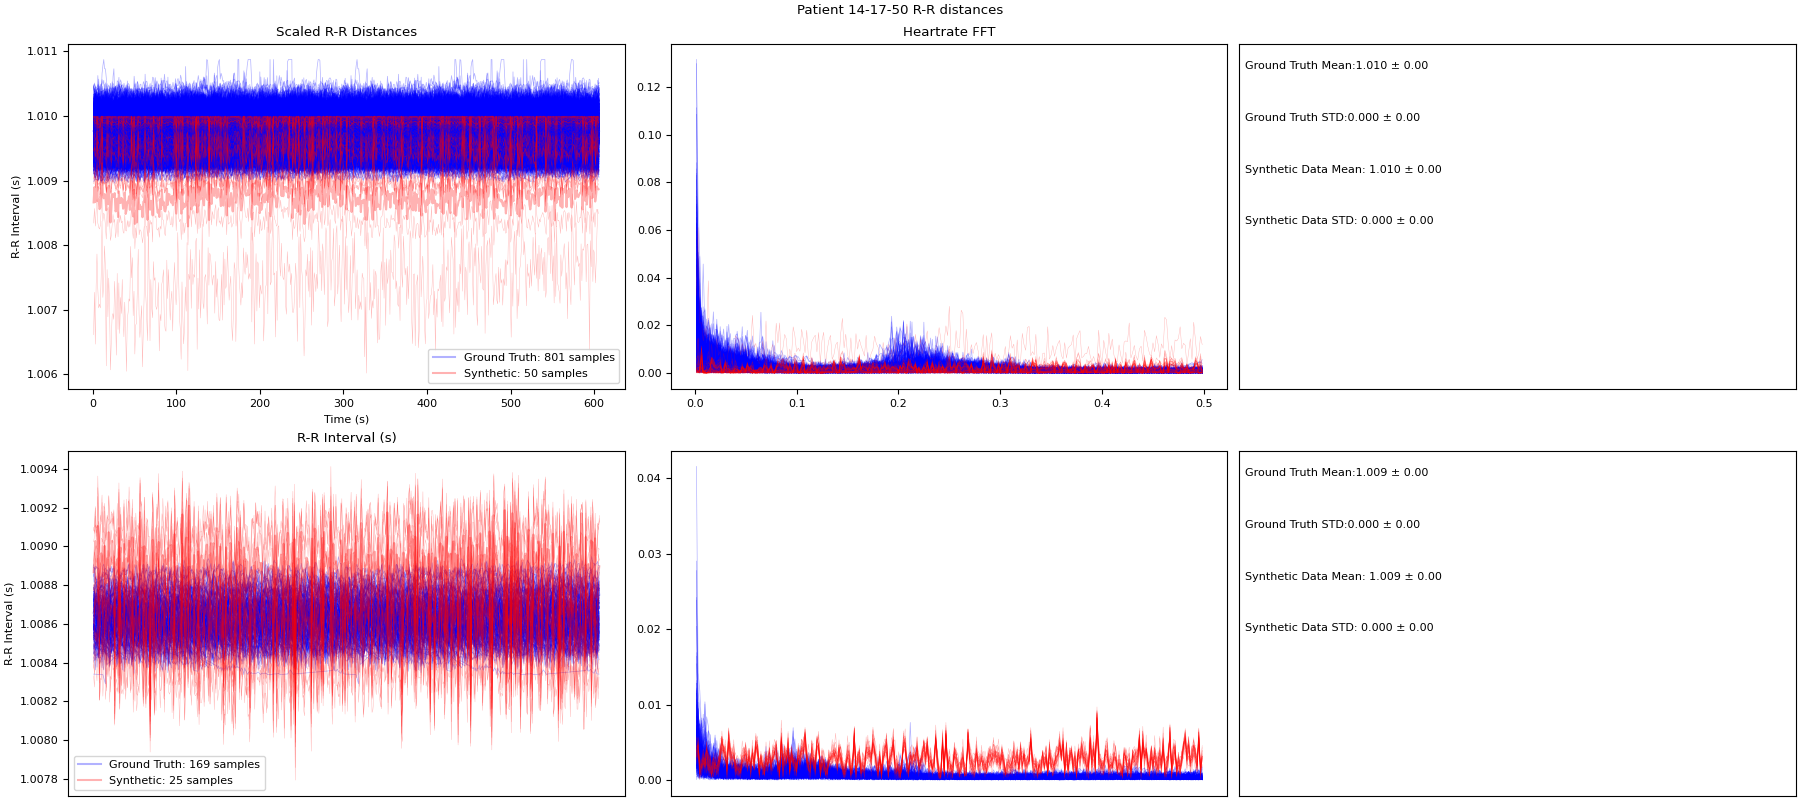
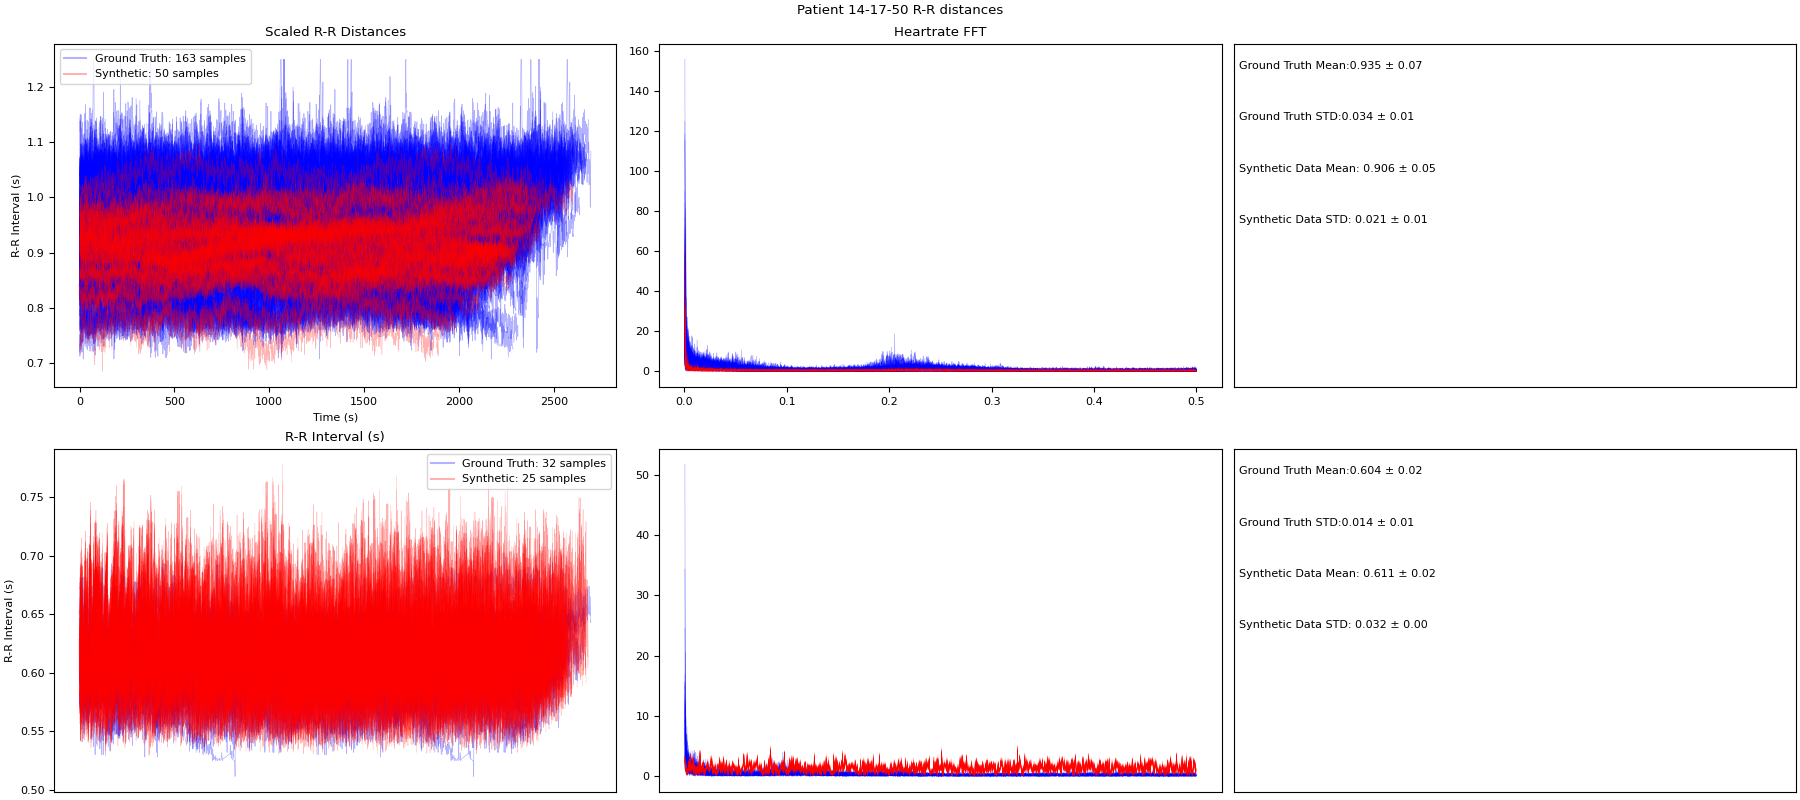
fixed split not scaling bug - train_gan_heartrate works again

diff --git a/train_gan_heartrate.py b/train_gan_heartrate.py
@@ -11,7 +11,7 @@ from torch.utils.data import TensorDataset, DataLoader
 import matplotlib.pyplot as plt
 from wgan import train_wgan, Generator
 from scipy.signal import find_peaks
-plt.rcParams.update({'font.size': 8})
+from matplotlib.lines import Line2D
 
 #data processing params
 patient_names = '06-31-24', '09-40-14', '10-48-45', '11-03-38', '13-22-23', '14-17-50'
@@ -67,15 +67,16 @@ def split_patient(patient_name:str, split_loc:float, stride:int=snip_len//2):
     split the data into two sets, one of which is a set of continuious snips greater than split_loc
     and the other is lower
     """
-    heartrate_data_raw = np.loadtxt(f'processed_data/heartrate_{patient_name}_unscaled.csv',delimiter=',')
+    heartrate_data_raw = np.loadtxt(f'processed_data/heartrate_{patient_name}.csv',delimiter=',')
     heartrate_data = heartrate_data_raw[:-2] #remove min and max
     heartrate_min = heartrate_data_raw[-2]
     heartrate_max = heartrate_data_raw[-1]
     segments = np.lib.stride_tricks.sliding_window_view(heartrate_data, window_shape=snip_len)
     segments = segments[::stride]
     # Boolean masks
-    mask_gt = np.all(segments > split_loc, axis=1)
-    mask_lt = np.all(segments < split_loc, axis=1)
+    scaled_split_loc  = 2*(split_loc - heartrate_min) / (heartrate_max -heartrate_min )-1
+    mask_gt = np.all(segments > scaled_split_loc, axis=1)
+    mask_lt = np.all(segments < scaled_split_loc, axis=1)
 
     # Split into two arrays
     segments_gt = segments[mask_gt]
@@ -91,7 +92,7 @@ def get_synthetic_outputs(gan, iterations, latent_dim=100):
     synthetic_output = np.array([gan(torch.randn(1, 100).cuda()).cpu().detach().numpy().squeeze() for _ in range(iterations)])
     return synthetic_output
 
-def final_plot(synth_data:list, ground_truth_data:list, data_max:float, data_min:float, name:str, alpha=0.3):
+def final_plot(synth_data:list, ground_truth_data:list, data_max:float, data_min:float, name:str, alpha=0.0001, linewidth=0.5):
     fig, axes = plt.subplots(len(synth_data),3,figsize=(18,8),constrained_layout=True)
     for itr, (synthetic, ground_truth) in enumerate(zip(synth_data, ground_truth_data)):
         synthetic =   ((synthetic + 1) / 2) * (data_max - data_min) + data_min
@@ -99,29 +100,19 @@ def final_plot(synth_data:list, ground_truth_data:list, data_max:float, data_min
 
         wave_ax = axes[itr,0]
         fft_ax = axes[itr,1]
+        fft_ax.set_ylim(0,20)
         text_ax = axes[itr,2]
-
-        all_gt_fft = []
-        all_synth_fft = []
 
         for it, gt_wave in enumerate(ground_truth):
             gt_squeezed = gt_wave.squeeze()
-            if it==0:
-                wave_ax.plot(np.cumsum(gt_squeezed), gt_squeezed, color='blue', alpha=alpha, label=f'Ground Truth: {len(ground_truth)} samples')
-            else:
-                wave_ax.plot(np.cumsum(gt_squeezed), gt_squeezed, alpha=alpha, linewidth=0.5, color='blue')
+            wave_ax.plot(np.cumsum(gt_squeezed), gt_squeezed, linewidth=linewidth, alpha=alpha, color='blue')
             freq, mag, _ = fft_transform(gt_squeezed)
-            fft_ax.plot(freq[1:], mag[1:], linewidth=0.5, alpha=alpha, color='blue')
-            all_gt_fft.append(mag)
+            fft_ax.plot(freq[1:], mag[1:], alpha=alpha, linewidth=linewidth, color='blue')
 
         for it, synth_wave in enumerate(synthetic):
-            if it == 0:
-                wave_ax.plot(np.cumsum(synth_wave), synth_wave, color='red', alpha=alpha, label=f'Synthetic: {len(synthetic)} samples')
-            else:
-                wave_ax.plot(np.cumsum(synth_wave), synth_wave, alpha=alpha, linewidth=alpha, color='red')
+            wave_ax.plot(np.cumsum(synth_wave), synth_wave, alpha=alpha, linewidth=linewidth, color='red')
             synth_freq, synth_mag, synth_peaks = fft_transform(synth_wave)
-            fft_ax.plot(synth_freq[1:], synth_mag[1:], linewidth=alpha, alpha=alpha, color='red')
-            all_synth_fft.append(synth_mag)
+            fft_ax.plot(synth_freq[1:], synth_mag[1:], alpha=alpha, linewidth=linewidth, color='red')
 
         synth_mean = f'{np.mean(synthetic):.3f} \u00B1 {np.std(np.mean(synthetic, axis=1)):.2f}'
         synth_std = f'{np.mean(np.std(synthetic, axis=1)):.3f} \u00B1 {np.std(np.std(synthetic, axis=1)):.2f}'
@@ -130,19 +121,13 @@ def final_plot(synth_data:list, ground_truth_data:list, data_max:float, data_min
         gt_std = f'{np.mean(np.std(ground_truth, axis=2)):.3f} \u00B1 {np.std(np.std(ground_truth, axis=2)):.2f}'
 
         wave_ax.set_ylabel("R-R Interval (s)")
-        wave_ax.set_title("R-R Interval (s)")
-        wave_ax.legend()
+        legend_lines = [Line2D([0], [0], color='blue'),  Line2D([0], [0], color='red')]
+        wave_ax.legend(legend_lines, [f"Ground Truth: {len(ground_truth)} samples", f"Synthetic: {len(synthetic)} samples"])
 
         text_ax.text(0.01, 0.95, f'Ground Truth Mean:{gt_mean}', ha='left', va='top')
         text_ax.text(0.01, 0.80, f'Ground Truth STD:{gt_std}', ha='left', va='top')
         text_ax.text(0.01, 0.65,f'Synthetic Data Mean: {synth_mean}', ha='left', va='top')
         text_ax.text(0.01, 0.50, f'Synthetic Data STD: {synth_std}', ha='left', va='top')
-        #all_mses = [weighted_mse(ground_truth,synth_wave) for gt, synth_wave in zip(ground_truth,synthetic)]
-        #all_fft_mses = [weighted_mse(gt_fft,synth_fft) for gt_fft, synth_fft in zip(all_gt_fft, all_synth_fft)]
-
-        #text_ax.text(0.01, 0.35, f'Weighted Waveform MSE - Mean:{np.mean(all_mses):.5f} \u00B1:{np.std(all_mses):.3f}', ha='left', va='top')
-        #text_ax.text(0.01, 0.20, f'Weighted FFT MSE - Mean:{np.mean(all_fft_mses):.5f} \u00B1:{np.std(all_fft_mses):.3f}', ha='left', va='top')
-
 
         text_ax.set_xticks([])
         text_ax.set_yticks([])
@@ -163,8 +148,8 @@ def final_plot(synth_data:list, ground_truth_data:list, data_max:float, data_min
 high_data, low_data, data_min, data_max = split_patient(patient_name = '14-17-50', split_loc= 0.7)
 high_data_dl, high_data_test = make_GAN_test_set(high_data)
 low_data_dl, low_data_test = make_GAN_test_set(low_data)
-wgan_gp_high = train_store_gan(high_data_dl, 'high_dataset', just_load=False, epochs=500)
-wgan_gp_low = train_store_gan(low_data_dl, 'low_dataset', just_load=False, epochs=500)
-synth_high = get_synthetic_outputs(wgan_gp_high, iterations=50)
-synth_low = get_synthetic_outputs(wgan_gp_low, iterations=25)
-final_plot([synth_high, synth_low], [high_data_test,low_data_test], data_max=data_max, data_min=data_min, name='Patient 14-17-50 R-R distances')
+wgan_gp_high = train_store_gan(high_data_dl, 'high_dataset', just_load=False, epochs=700)
+wgan_gp_low = train_store_gan(low_data_dl, 'low_dataset', just_load=False, epochs=700)
+synth_high = get_synthetic_outputs(wgan_gp_high, iterations=len(high_data_test))
+synth_low = get_synthetic_outputs(wgan_gp_low, iterations=len(low_data_test))
+final_plot([synth_high, synth_low], [high_data_test,low_data_test], data_max=data_max, data_min=data_min, name='Patient 14-17-50 R-R distances split at 0.7')

diff --git a/sinusoid_test/train_gan_square_tri_loop.py b/sinusoid_test/train_gan_square_tri_loop.py
@@ -110,13 +110,13 @@ def make_train_test_dataloaders(square_data, triangle_data):
 def train_store_gan(train_square, train_triangle, gen_name = '', epochs=100, just_load=False):
     if not just_load:
         gen_square, _ = train_wgan(train_square, signal_length = 2500, epochs=epochs)
-        torch.save(gen_square.state_dict(), f"models/generator_square_{gen_name}.pth")
+        torch.save(gen_square.state_dict(), f"../models/generator_square_{gen_name}.pth")
         gen_triangle, _ = train_wgan(train_triangle,signal_length = 2500,  epochs=epochs)
-        torch.save(gen_triangle.state_dict(), f"models/generator_triangle_{gen_name}.pth")
+        torch.save(gen_triangle.state_dict(), f"../models/generator_triangle_{gen_name}.pth")
 
     gen_triangle, gen_square = Generator(signal_length = 2500, latent_dim=100).cuda(), Generator(signal_length = 2500,  latent_dim=100).cuda()
-    gen_triangle.load_state_dict(torch.load(f"models/generator_triangle_{gen_name}.pth", weights_only=True))
-    gen_square.load_state_dict(torch.load(f"models/generator_square_{gen_name}.pth", weights_only=True))
+    gen_triangle.load_state_dict(torch.load(f"../models/generator_triangle_{gen_name}.pth", weights_only=True))
+    gen_square.load_state_dict(torch.load(f"../models/generator_square_{gen_name}.pth", weights_only=True))
     return gen_square, gen_triangle
 
 def plot_mean_and_diff(square_real, square_gen, triangle_real, triangle_gen, filename='comparison', show=False):
@@ -164,7 +164,7 @@ def plot_mean_and_diff(square_real, square_gen, triangle_real, triangle_gen, fil
     axes[1].set_title(f"Comparison Between original Triangle Waves and WGAN-Generated Triangle Waves \n Generated Mean: {triangle_gen_mean:.3f}, Generated Median {triangle_gen_median:.3f}, Generated STD {triangle_gen_std:.3f}, Original Mean: {triangle_real_mean:.3f}, Original Median {triangle_real_median:.3f}, Original STD {triangle_real_std:.3f}")
 
     plt.tight_layout()
-    plt.savefig(f"figures/wgan_comparison/{filename}.png")
+    plt.savefig(f"../figures/wgan_comparison/{filename}.png")
     if show:
         plt.show()
 
@@ -183,7 +183,7 @@ def plot_examples(square_gen, triangle_gen, filename='examples', show=False):
     axes[1].set_xlabel("Time (s)")
     axes[1].set_ylim(-1.2,1.2)
     plt.tight_layout()
-    plt.savefig(f"figures/samples/{filename}.png")
+    plt.savefig(f"../figures/samples/{filename}.png")
     if show:
         plt.show()
 

diff --git a/README.md b/README.md
@@ -4,3 +4,9 @@ Mira Welner
 August 2025
 
 This project takes in Dr. Dey's heartrate data and analyses it with both a [Wasserstein GAN with Gradient Penalty (WGAN-GP)](https://arxiv.org/abs/1704.00028), and a [neural prophet network](https://neuralprophet.com/).
+
+
+The sinusiod_test folder creates and tests fake data based on sinusoids, as a basic test to see if the GAN works at all
+
+The create_analysis_plots.py file runs various tests on the heartrate data itself, and stores the corresponding plots in the figures folder.
+It does not involve the GAN or the FFNN or any actual model.
